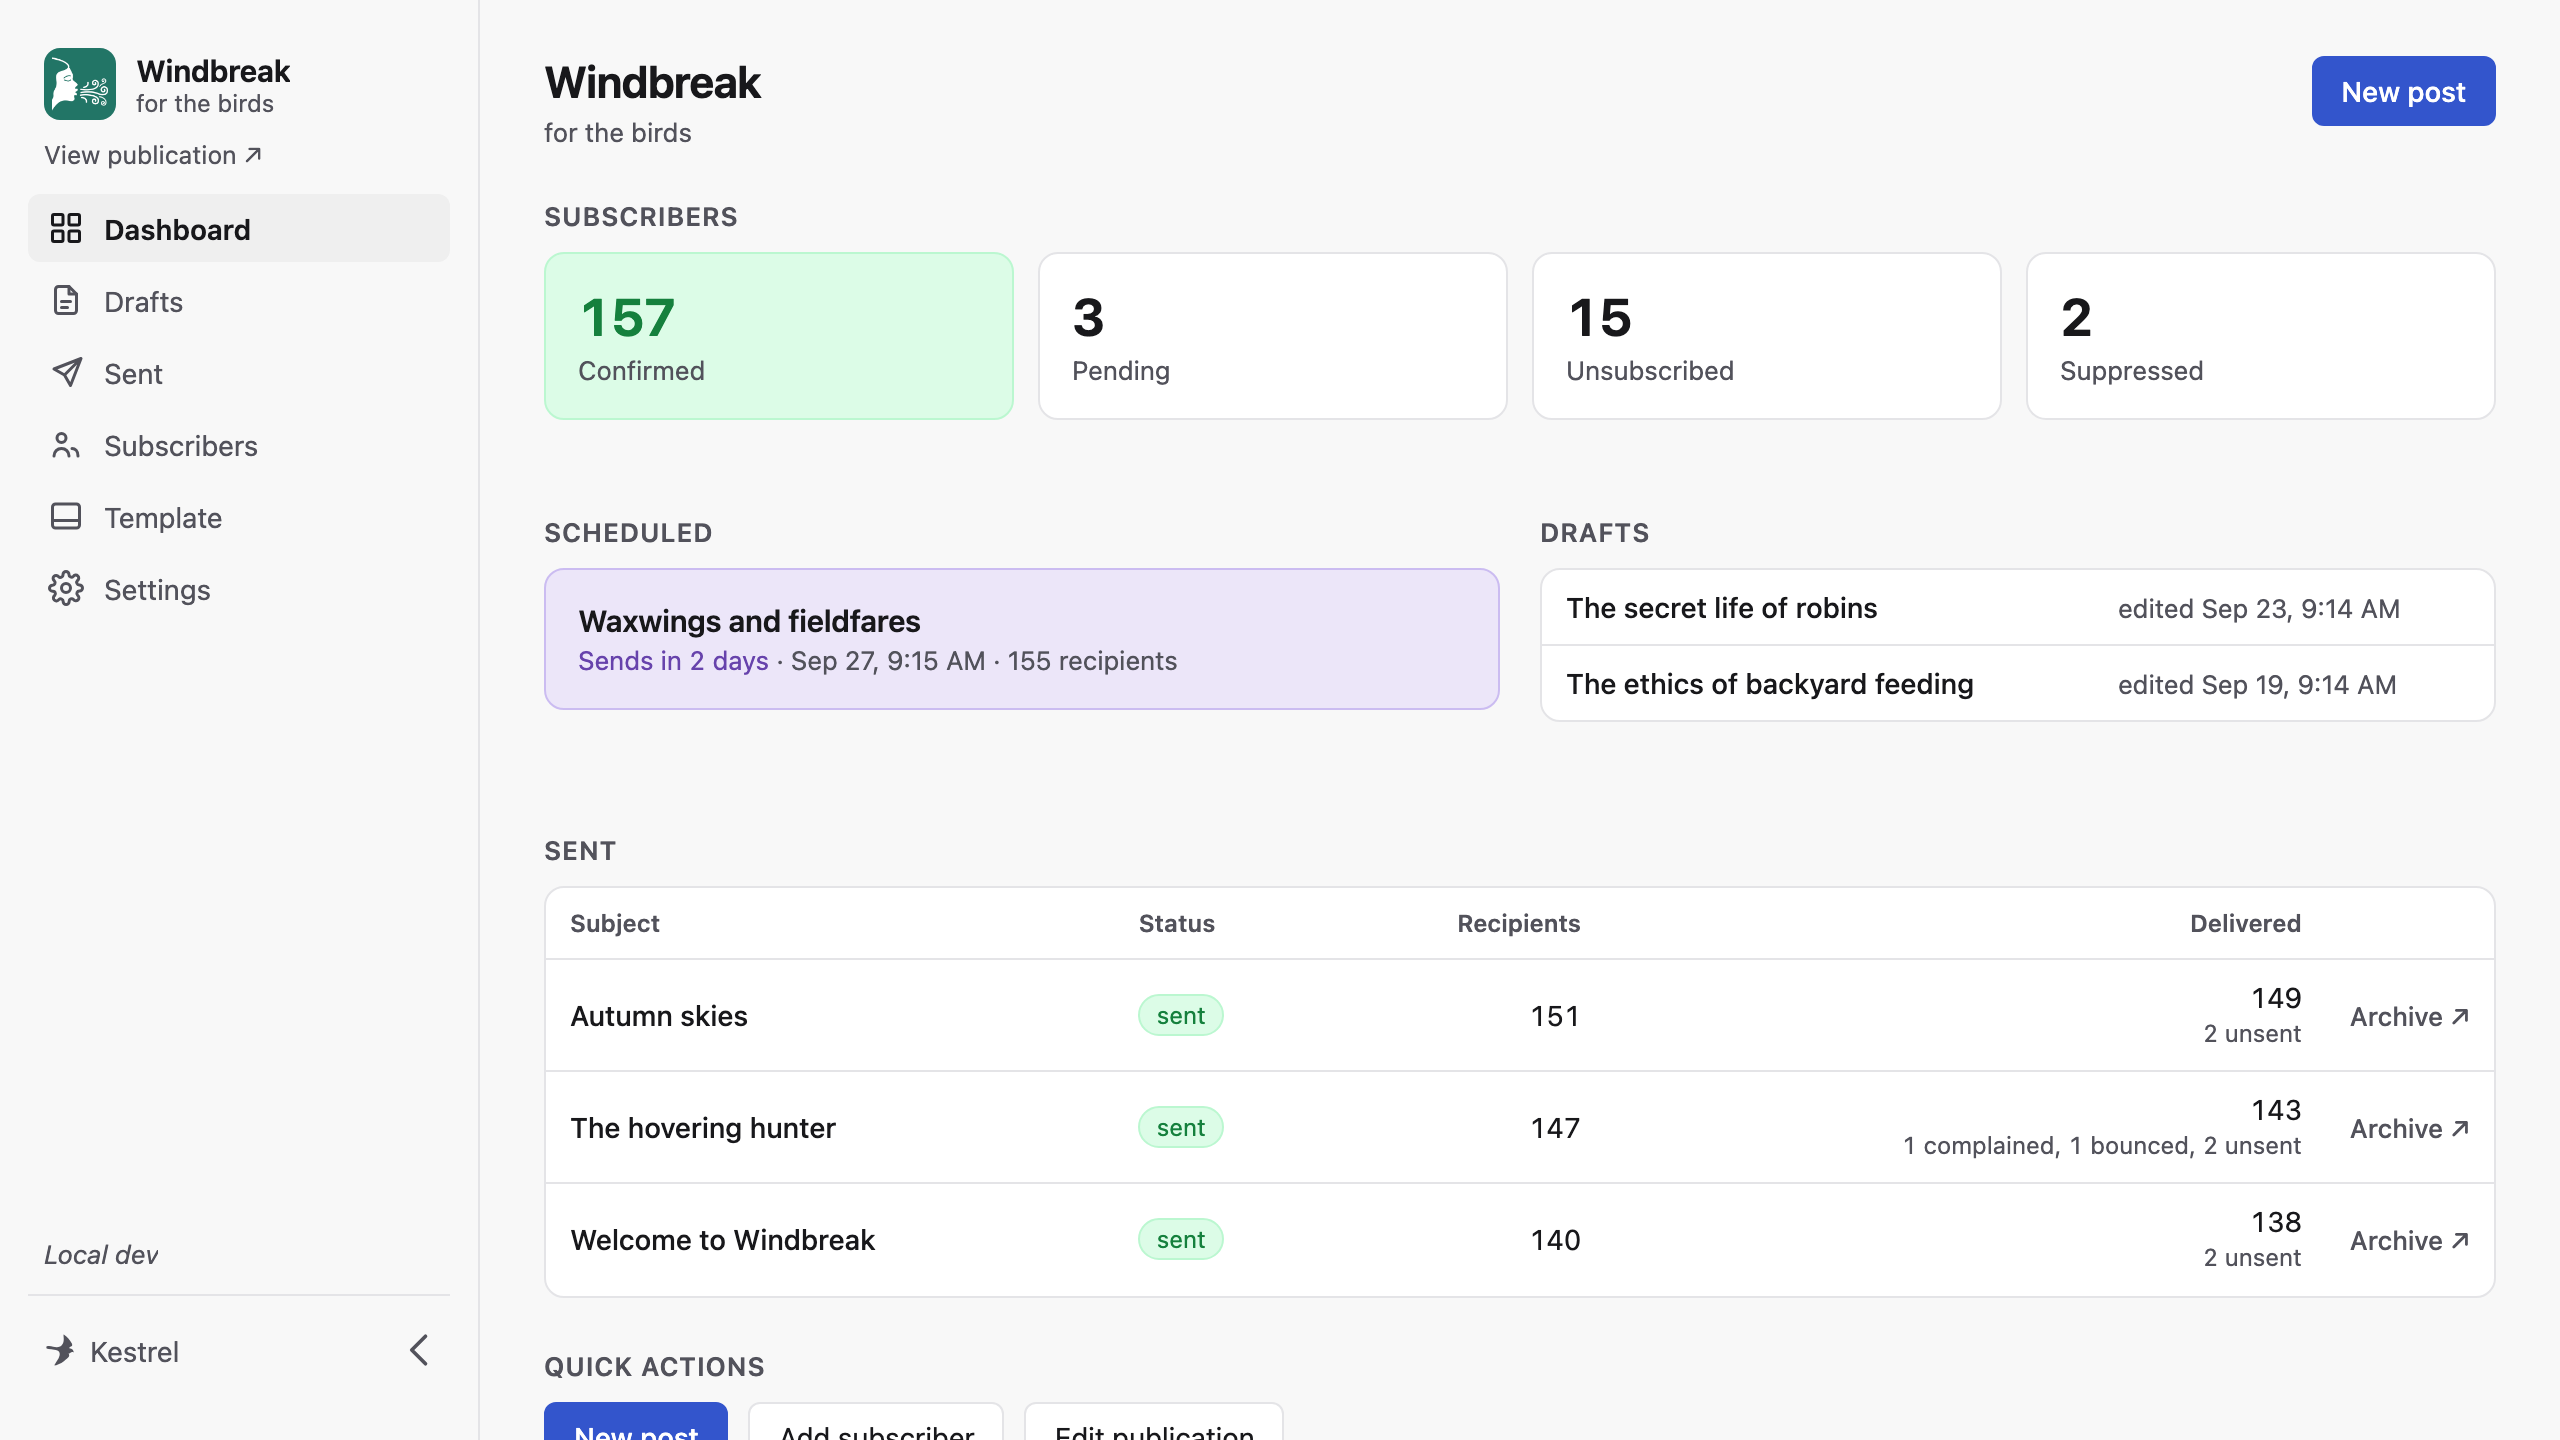
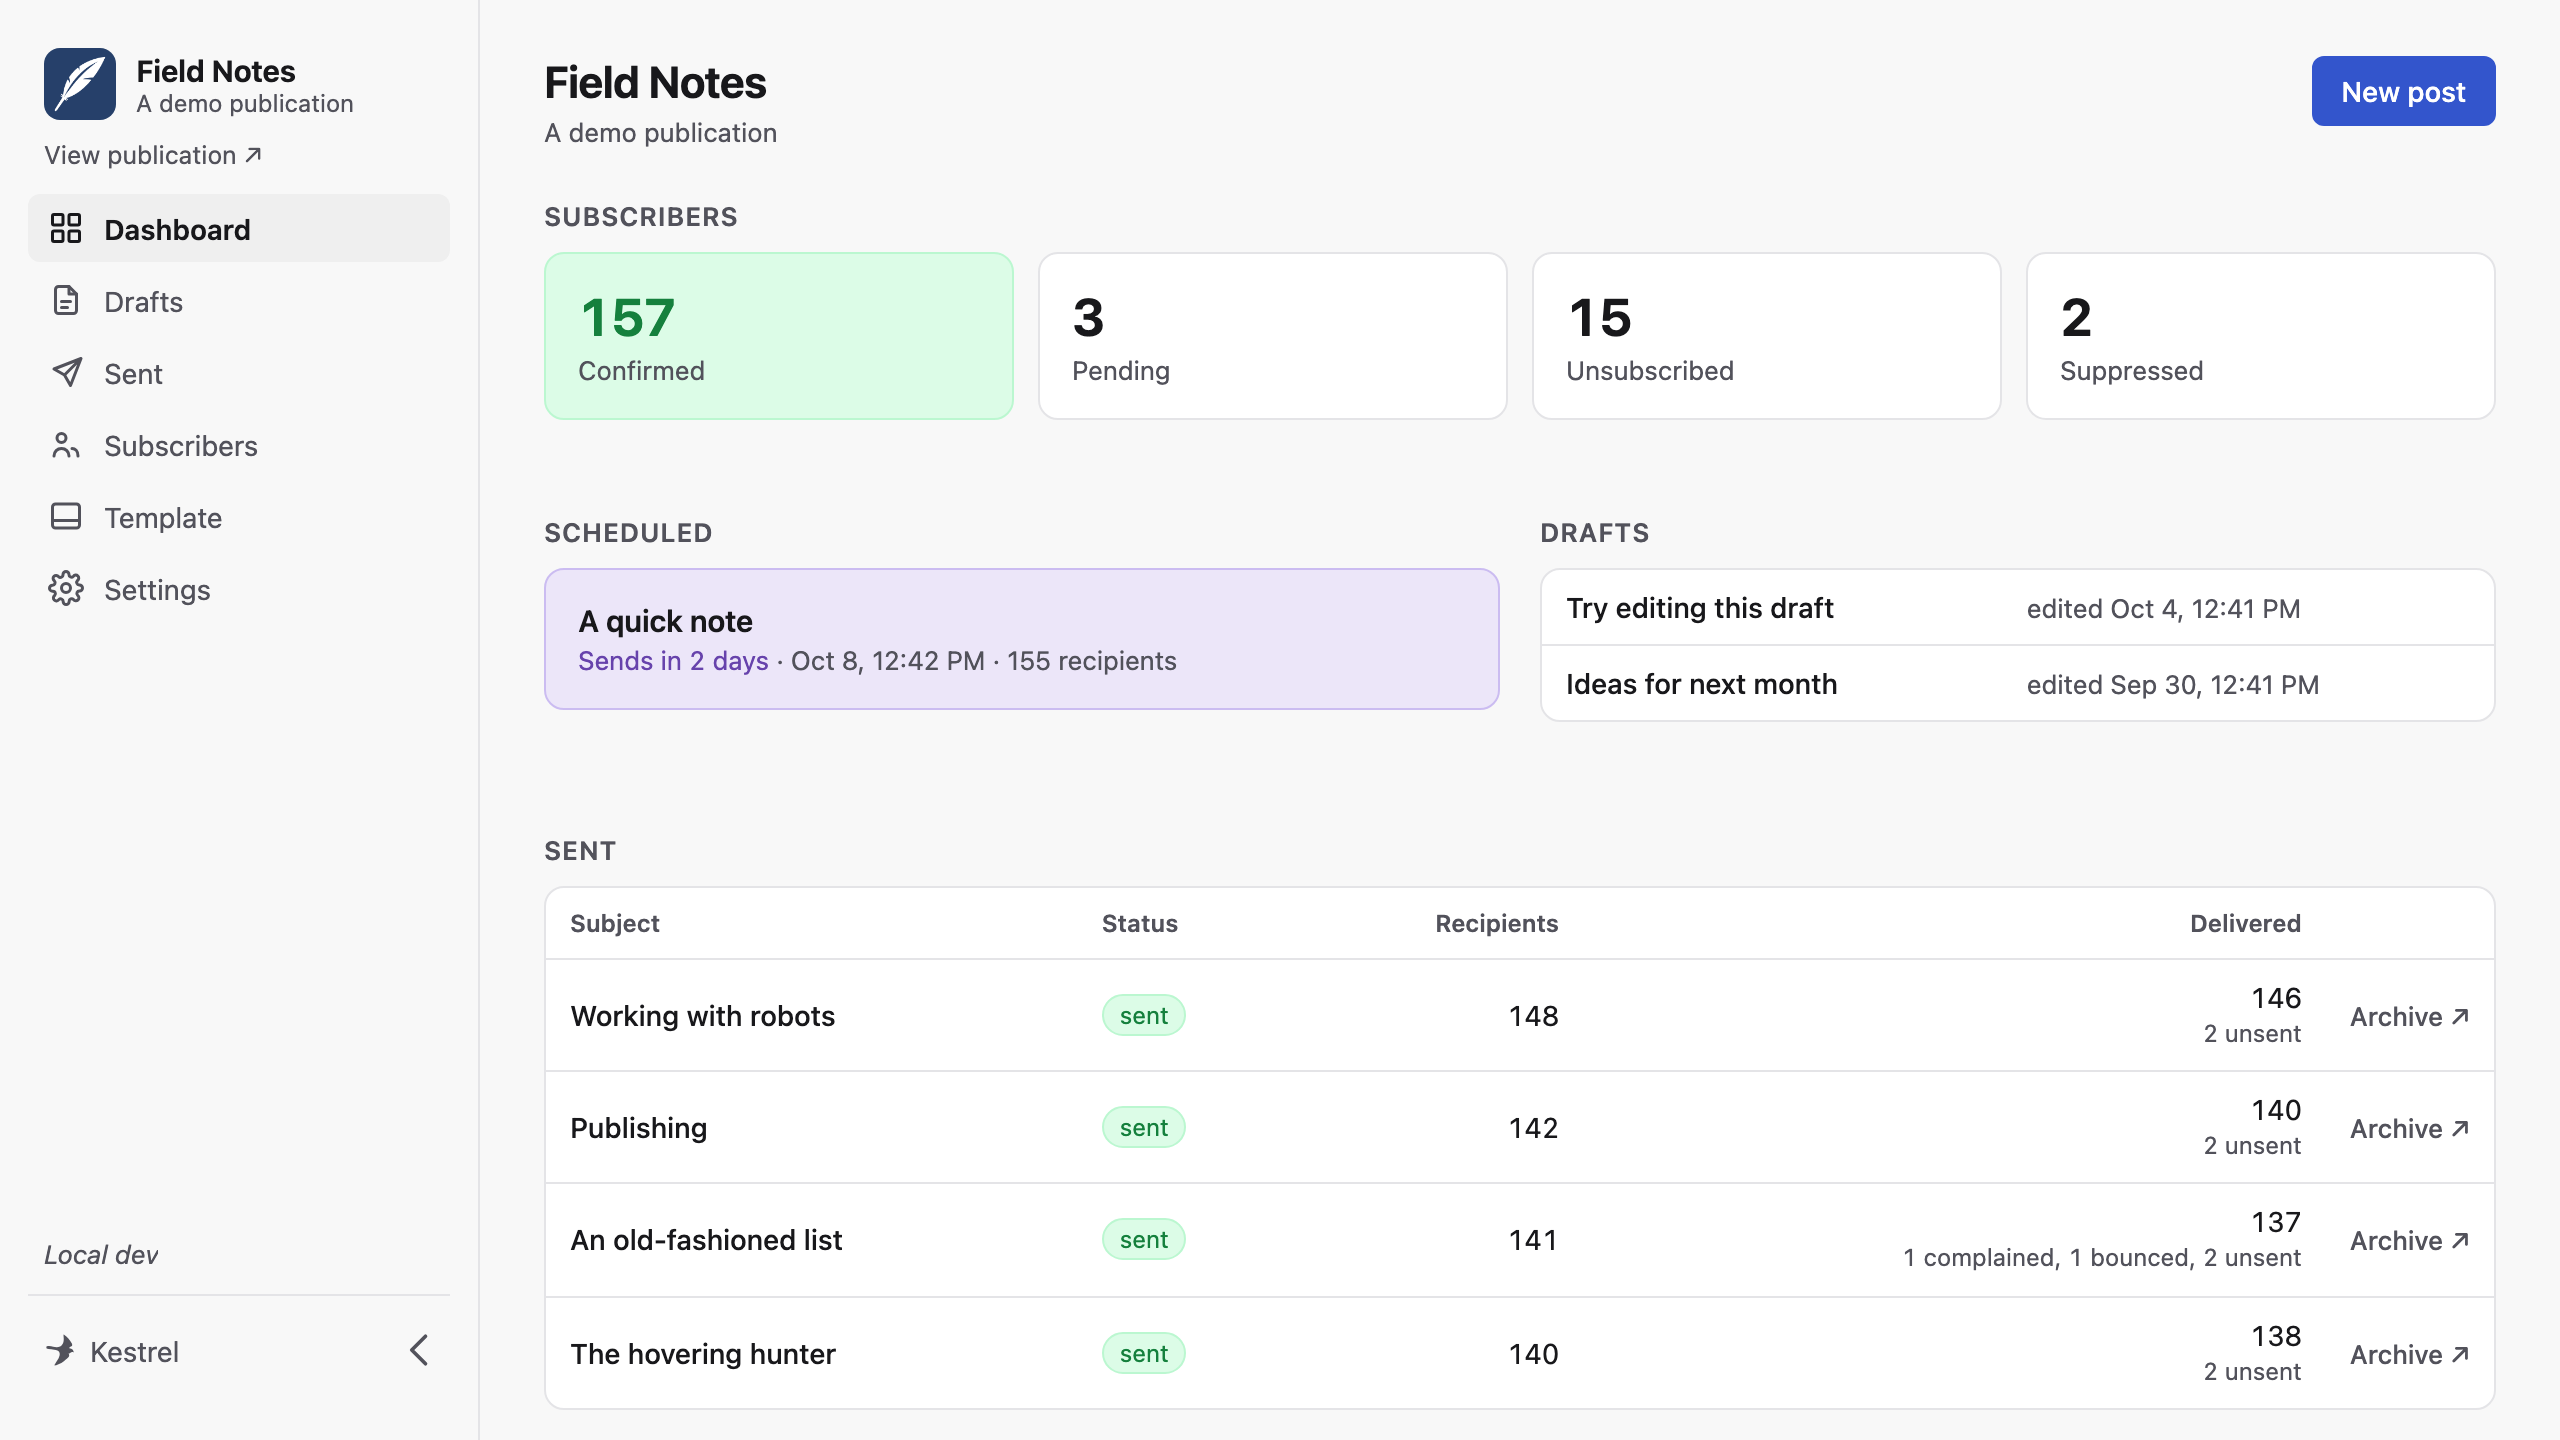
Docs: bump the pinned kestrel release v1.1.0 -> v1.2.0
kestrel's seed demo is now Field Notes, not Windbreak: regenerate the hero
dashboard screenshots from a seeded v1.2.0 dev server and update their alt
text. Synced /docs/ are byte-identical.

diff --git a/layouts/index.html b/layouts/index.html
@@ -29,7 +29,7 @@
           <source srcset="{{ $shotDark.RelPermalink }}" media="(prefers-color-scheme: dark)">
           <img src="{{ $shotLight.RelPermalink }}" width="2560" height="1440" loading="eager"
             decoding="async"
-            alt="The Kestrel editor: the dashboard for the Windbreak demo publication, showing subscriber counts, a scheduled issue, two drafts, and the sent issues.">
+            alt="The Kestrel editor: the dashboard for the Field Notes demo publication, showing subscriber counts, a scheduled issue, two drafts, and the sent issues.">
         </picture>
       </div>
     </div>
